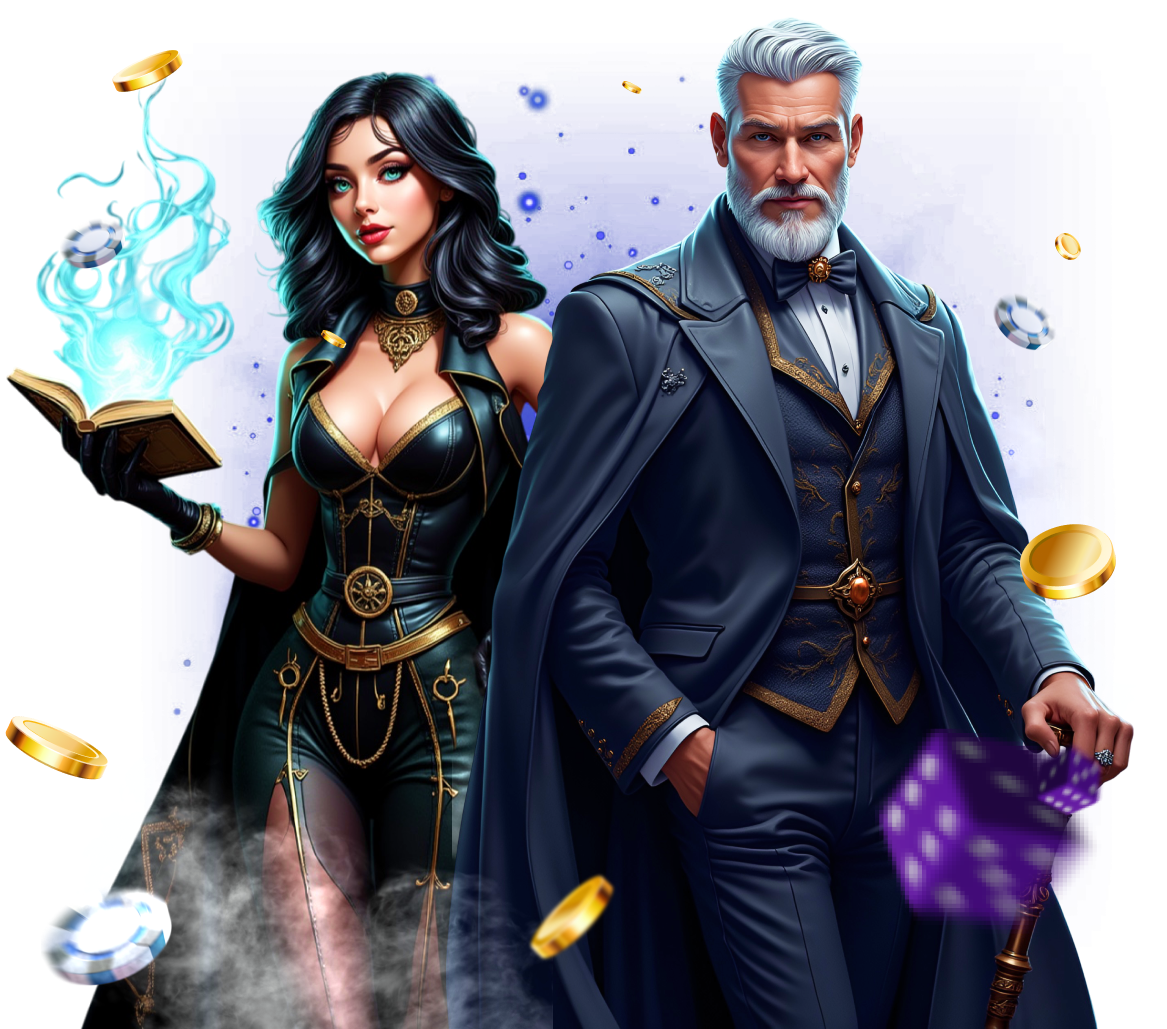
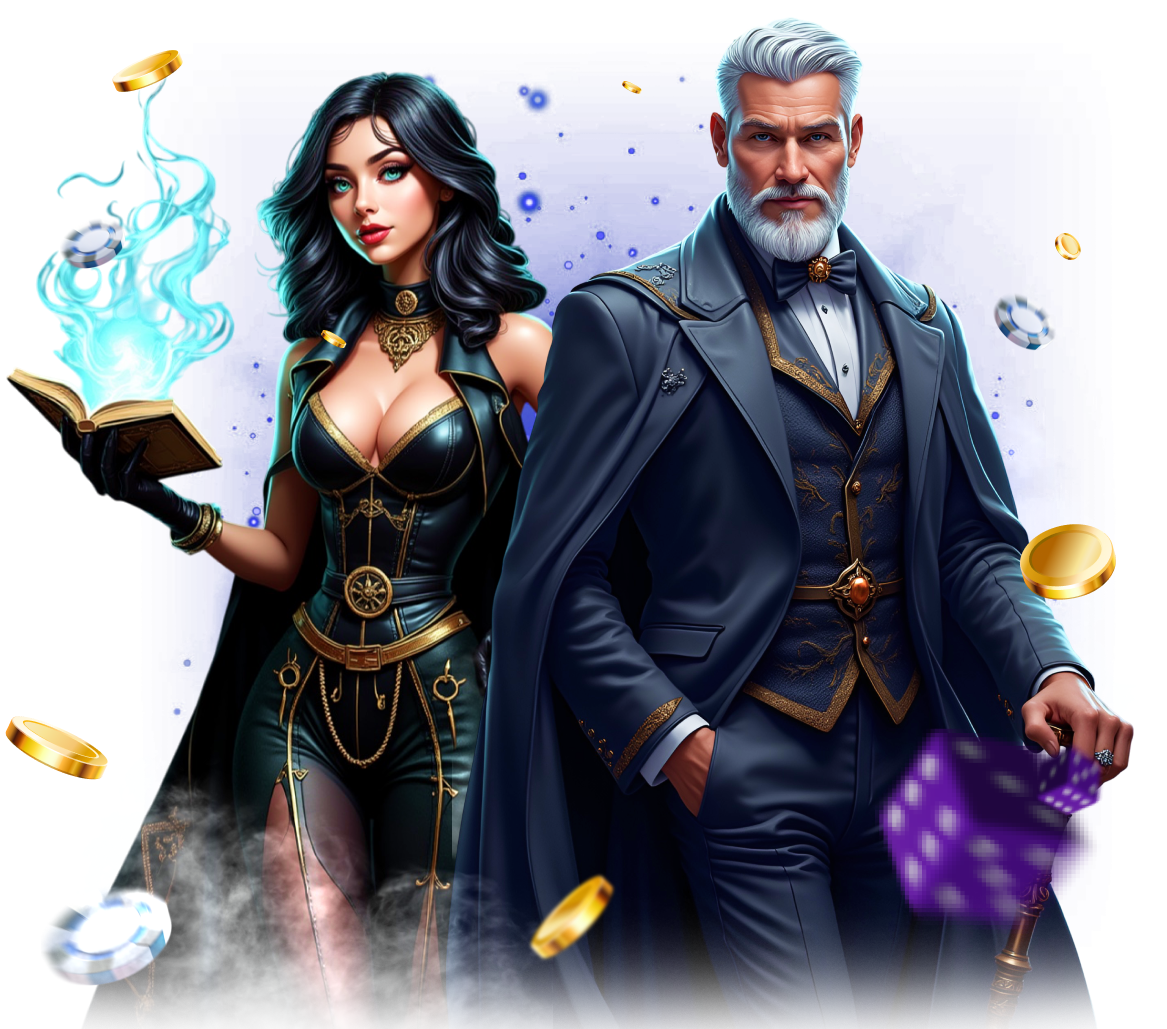
Iniaxcaxqxcqcффісфісфсісф

Changed region(s): [[0.0308, 0.9018, 0.9563, 1.0]]

diff --git a/css/main.css b/css/main.css
@@ -24,6 +24,9 @@ html, body {
 }
 
 body {
+  display: flex;
+  flex-direction: column;
+  justify-content: space-between;
 
   background-color: #000117;
   background-image:  url('../images/bg-mob.webp');
@@ -34,6 +37,10 @@ body {
   min-height: 100vh;
   height: auto;
   overflow-y: auto;
+}
+
+body > :last-child {
+  flex: 1;
 }
 
 
@@ -175,7 +182,7 @@ body {
   margin: 0 auto;
   width: 375px;
   height: 310px;
-  background-image: url('../images/char-mob.png');
+  background-image: url('../images/char-mob1.png');
   background-size: contain;
   background-repeat: no-repeat;
   background-position: center;
@@ -331,21 +338,30 @@ position: relative;
 
 @media (min-width: 1440px) and (max-width: 1919px) {
 body {
-  padding-top: 40px;
   background-image:  url('../images/bg-desk.webp');
-  overflow-y: hidden;
+  overflow: hidden;
+}
+
+.block--1 {
+  padding-top: 50px;
   display: flex;
-  flex-direction: column;
-  justify-content: space-between;
+  margin: 0 auto;
+  max-width: 1600px;
+  overflow: hidden;
+  align-items: top;
+}
+
+.main {
+  padding-top: 30px;
 }
 
   .logos {
     padding: 0 0 0 50px;
-    /* padding-top: 60px; */
     width: 585px;
     height: 95px;
     margin: 0;
     align-items: center;
+    margin-bottom: 60px;
   }
 
   .logo1 {
@@ -363,8 +379,9 @@ body {
 .text-top {
   width: 660px;
   margin: 0;
+  justify-content: center;
   align-items: start;
-  padding: 0 0 0 50px;
+  padding-left: 50px;
 }
 
 .text-top-1 {
@@ -387,19 +404,19 @@ body {
 }
 
 .characters {
-  width: 900px;
-  height: 1000px;
-  min-height: 700px;
+  width: 875px;
+  height: 772px;
   background-image: url('../images/char-desk.png');
-  position: absolute;
-  background-size: 90% 90%;
   background-position: bottom right;
-  bottom: 0;
-  right: 0;
-  z-index: 1;
 }
 
 .footer {
+  display: flex;
+  flex-direction: column;
+  justify-content: center;
+  align-items: center;
+  position: absolute;
+  bottom: 0;
   margin: 0;
   padding-bottom: 40px;
   background: linear-gradient(0deg, #000000 0%, rgba(0, 0, 0, 0) 102.25%);
@@ -415,7 +432,7 @@ body {
   flex-direction: row;
   justify-content: space-around;
   align-items: center;
-  width: 100%;
+  max-width: 1600px;
   gap: 16px;
 }
 
@@ -435,18 +452,28 @@ body {
 .step-3 {
   background-image: url('../Frame-desk-3.png');
 }
+
 }
 
 
 @media (min-width: 1920px) {
 body {
-  padding-top: 40px;
+  /* padding-top: 40px; */
   background-image:  url('../images/bg-desk.webp');
-  overflow-y: hidden;
-  display: flex;
-  flex-direction: column;
-  justify-content: space-between;
+  overflow: hidden;
+}
 
+.block--1 {
+  padding-top: 50px;
+  display: flex;
+  margin: 0 auto;
+  max-width: 2000px;
+  overflow: hidden;
+  align-items: top;
+}
+
+.main {
+  padding-top: 70px;
 }
 
   .logos {
@@ -455,6 +482,7 @@ body {
     height: 95px;
     margin: 0;
     align-items: center;
+    margin-bottom: 100px;
   }
 
   .logo1 {
@@ -498,17 +526,18 @@ body {
 
 .characters {
   width: 1167px;
-  height: 1090px;
+  height: 1029px;
   background-image: url('../images/char-desk.png');
-  position: absolute;
-  background-size: 90% 90%;
   background-position: bottom right;
-  bottom: 0;
-  right: 0;
-  z-index: 1;
 }
 
 .footer {
+  display: flex;
+  flex-direction: column;
+  justify-content: center;
+  align-items: center;
+  position: absolute;
+  bottom: 0;
   margin: 0;
   padding-bottom: 40px;
   background: linear-gradient(0deg, #000000 0%, rgba(0, 0, 0, 0) 102.25%);
@@ -524,7 +553,7 @@ body {
   flex-direction: row;
   justify-content: space-around;
   align-items: center;
-  width: 100%;
+  max-width: 2000px;
   gap: 16px;
 }
 
@@ -547,8 +576,6 @@ body {
 
 
 }
-
-
 
 
 

diff --git a/index.html b/index.html
@@ -16,7 +16,9 @@
     </head>
 
     <body class="body">
-        <div class="logos">
+        <div class="block--1">
+            <div class="main">
+                        <div class="logos">
             <a href="https://spellwin777.com" class="logo logo1">
             </a>
             <a href="https://www.aboutslots.com/" class="logo logo2">
@@ -41,10 +43,11 @@
                 </a>
             </div>
         </div>
+            </div>
 
-        <div class="bottom1">
             <div class="characters">
             </div>
+        </div>
 
             <div class="footer">
                 <div class="footer-text">How to get your bonus</div>
@@ -57,10 +60,8 @@
 
                         <div class="step step-3">
                         </div>
-
                     </div>
             </div>
-        </div>
 
         <script src='script.js'></script>
     </body>

diff --git a/script.js b/script.js
@@ -14,7 +14,7 @@ document.addEventListener('DOMContentLoaded', () => {
     'images/bg-mob.webp',
     'images/char-desk.png',
     'images/char-tab.png',
-    'images/char-mob.png',
+    'images/char-mob1.png',
   ]);
 
 });
